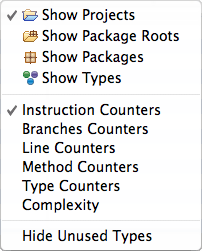
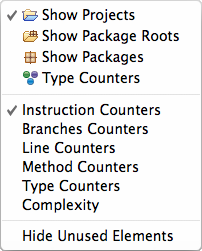
Trac #190: Generalize "Hide Unused Types" to "Hide Unused Elements"

Changed region(s): [[0.2079, 0.2789, 0.7129, 0.3625], [0.5347, 0.8924, 0.8614, 0.9761], [0.0, 0.0837, 0.0297, 0.1116]]

diff --git a/com.mountainminds.eclemma.doc/pages/changes.html b/com.mountainminds.eclemma.doc/pages/changes.html
@@ -19,6 +19,8 @@
   <li>For long-running processes intermediate coverage data dumps can now be
       collected without terminating the application under test.</li>
   <li>Trac #168: New editor for JaCoCo execution data files.</li>
+  <li>Trac #190: The <i>Coverage</i> view option <i>Hide Unused Types</i> has
+      been generalized to <i>Hide Unused Elements</i>.</li>
   <li>SF #3487904: Avoid NPE in case of new and empty launch configurations.</li>
   <li>SF #3477725: Java agent must not be added multiple times to plug-in
       launch configurations.</li> 

diff --git a/com.mountainminds.eclemma.doc/pages/coverageview.html b/com.mountainminds.eclemma.doc/pages/coverageview.html
@@ -93,8 +93,8 @@
   types and cyclomatic complexity. Please see
   <a class="extern" href="http://www.eclemma.org/jacoco/trunk/doc/counters.html">JaCoCo documentation</a>
   for detailed counter definitions.</li>  
-  <li><b>Hide Unused Types</b>: Filter all Java types from the coverage view
-  that has not been loaded during the coverage session.</li>  
+  <li><b>Hide Unused Elements</b>: Filter all elements from the coverage view
+  that have not been executed at all during the coverage session.</li>  
 </ul>
 
 <h3>Filtering</h3>

diff --git a/com.mountainminds.eclemma.ui/src/com/mountainminds/eclemma/internal/ui/coverageview/ViewSettings.java b/com.mountainminds.eclemma.ui/src/com/mountainminds/eclemma/internal/ui/coverageview/ViewSettings.java
@@ -31,7 +31,7 @@ public class ViewSettings {
   private static final String KEY_SORTCOLUMN = "sortcolumn"; //$NON-NLS-1$
   private static final String KEY_REVERSESORT = "reversesort"; //$NON-NLS-1$
   private static final String KEY_COUNTERS = "counters"; //$NON-NLS-1$
-  private static final String KEY_HIDEUNUSEDTYPES = "hideunusedtypes"; //$NON-NLS-1$
+  private static final String KEY_HIDEUNUSEDELEMENTS = "hideunusedelements"; //$NON-NLS-1$
   private static final String KEY_ROOTTYPE = "roottype"; //$NON-NLS-1$
   private static final String KEY_COLUMN0 = "column0"; //$NON-NLS-1$
   private static final String KEY_COLUMN1 = "column1"; //$NON-NLS-1$
@@ -88,7 +88,7 @@ public class ViewSettings {
   private boolean reversesort;
   private CounterEntity counters;
   private ElementType roottype;
-  private boolean hideunusedtypes;
+  private boolean hideunusedelements;
   private int[] columnwidths = new int[5];
   private boolean linked;
 
@@ -129,12 +129,12 @@ public class ViewSettings {
     this.roottype = roottype;
   }
 
-  public boolean getHideUnusedTypes() {
-    return hideunusedtypes;
+  public boolean getHideUnusedElements() {
+    return hideunusedelements;
   }
 
-  public void setHideUnusedTypes(boolean flag) {
-    hideunusedtypes = flag;
+  public void setHideUnusedElements(boolean flag) {
+    hideunusedelements = flag;
   }
 
   public int[] getColumnWidths() {
@@ -156,7 +156,7 @@ public class ViewSettings {
         CounterEntity.INSTRUCTION);
     roottype = getEnum(memento, KEY_ROOTTYPE, ElementType.class,
         ElementType.GROUP);
-    hideunusedtypes = getBoolean(memento, KEY_HIDEUNUSEDTYPES, false);
+    hideunusedelements = getBoolean(memento, KEY_HIDEUNUSEDELEMENTS, false);
     columnwidths[0] = getInt(memento, KEY_COLUMN0, DEFAULT_COLUMNWIDTH[0]);
     columnwidths[1] = getInt(memento, KEY_COLUMN1, DEFAULT_COLUMNWIDTH[1]);
     columnwidths[2] = getInt(memento, KEY_COLUMN2, DEFAULT_COLUMNWIDTH[2]);
@@ -167,16 +167,16 @@ public class ViewSettings {
 
   public void save(IMemento memento) {
     memento.putInteger(KEY_SORTCOLUMN, sortcolumn);
-    memento.putInteger(KEY_REVERSESORT, reversesort ? 1 : 0);
+    memento.putBoolean(KEY_REVERSESORT, reversesort);
     memento.putString(KEY_COUNTERS, counters.name());
     memento.putString(KEY_ROOTTYPE, roottype.name());
-    memento.putInteger(KEY_HIDEUNUSEDTYPES, hideunusedtypes ? 1 : 0);
+    memento.putBoolean(KEY_HIDEUNUSEDELEMENTS, hideunusedelements);
     memento.putInteger(KEY_COLUMN0, columnwidths[0]);
     memento.putInteger(KEY_COLUMN1, columnwidths[1]);
     memento.putInteger(KEY_COLUMN2, columnwidths[2]);
     memento.putInteger(KEY_COLUMN3, columnwidths[3]);
     memento.putInteger(KEY_COLUMN4, columnwidths[4]);
-    memento.putInteger(KEY_LINKED, linked ? 1 : 0);
+    memento.putBoolean(KEY_LINKED, linked);
   }
 
   private int getInt(IMemento memento, String key, int preset) {
@@ -185,6 +185,15 @@ public class ViewSettings {
     } else {
       Integer i = memento.getInteger(key);
       return i == null ? preset : i.intValue();
+    }
+  }
+
+  private boolean getBoolean(IMemento memento, String key, boolean preset) {
+    if (memento == null) {
+      return preset;
+    } else {
+      Boolean b = memento.getBoolean(key);
+      return b == null ? preset : b.booleanValue();
     }
   }
 
@@ -202,10 +211,6 @@ public class ViewSettings {
     } catch (IllegalArgumentException e) {
       return preset;
     }
-  }
-
-  private boolean getBoolean(IMemento memento, String key, boolean preset) {
-    return getInt(memento, key, preset ? 1 : 0) == 1;
   }
 
 }

diff --git a/com.mountainminds.eclemma.ui/src/com/mountainminds/eclemma/internal/ui/coverageview/CoverageView.java b/com.mountainminds.eclemma.ui/src/com/mountainminds/eclemma/internal/ui/coverageview/CoverageView.java
@@ -294,13 +294,17 @@ public class CoverageView extends ViewPart implements IShowInTarget {
         if (element == LOADING_ELEMENT) {
           return true;
         } else {
-          ICoverageNode c = CoverageTools.getCoverageInfo(element);
-          if (c == null || c.getInstructionCounter().getTotalCount() == 0) {
+          final ICoverageNode c = CoverageTools.getCoverageInfo(element);
+          if (c == null) {
             return false;
           }
-          if (settings.getHideUnusedTypes()) {
-            ICounter cnt = c.getClassCounter();
-            return cnt.getTotalCount() == 0 || cnt.getCoveredCount() != 0;
+          final ICounter instructions = c.getInstructionCounter();
+          if (instructions.getTotalCount() == 0) {
+            return false;
+          }
+          if (settings.getHideUnusedElements()
+              && instructions.getCoveredCount() == 0) {
+            return false;
           }
           return true;
         }
@@ -340,8 +344,8 @@ public class CoverageView extends ViewPart implements IShowInTarget {
         new SelectRootElementsHandler(settings, this));
     activateHandler(SelectCountersHandler.ID, new SelectCountersHandler(
         settings, this));
-    activateHandler(HideUnusedTypesHandler.ID, new HideUnusedTypesHandler(
-        settings, this));
+    activateHandler(HideUnusedElementsHandler.ID,
+        new HideUnusedElementsHandler(settings, this));
     activateHandler(IWorkbenchCommandConstants.EDIT_COPY,
         new CopyHandler(tree.getDisplay(), settings, labelprovider, viewer));
     activateHandler(IWorkbenchCommandConstants.FILE_REFRESH,

diff --git a/com.mountainminds.eclemma.ui/src/com/mountainminds/eclemma/internal/ui/coverageview/HideUnusedElementsHandler.java b/com.mountainminds.eclemma.ui/src/com/mountainminds/eclemma/internal/ui/coverageview/HideUnusedElementsHandler.java
@@ -22,27 +22,28 @@ import org.eclipse.ui.menus.UIElement;
 /**
  * Handler to toggle hide unused types in the coverage tree.
  */
-class HideUnusedTypesHandler extends AbstractHandler implements IElementUpdater {
+class HideUnusedElementsHandler extends AbstractHandler implements
+    IElementUpdater {
 
-  public static final String ID = "com.mountainminds.eclemma.ui.hideUnusedTypes"; //$NON-NLS-1$
+  public static final String ID = "com.mountainminds.eclemma.ui.hideUnusedElements"; //$NON-NLS-1$
 
   private final ViewSettings settings;
   private final CoverageView view;
 
-  public HideUnusedTypesHandler(ViewSettings settings, CoverageView view) {
+  public HideUnusedElementsHandler(ViewSettings settings, CoverageView view) {
     this.settings = settings;
     this.view = view;
   }
 
   public Object execute(ExecutionEvent event) throws ExecutionException {
-    settings.setHideUnusedTypes(!settings.getHideUnusedTypes());
+    settings.setHideUnusedElements(!settings.getHideUnusedElements());
     view.refreshViewer();
     return null;
   }
 
   public void updateElement(UIElement element,
       @SuppressWarnings("rawtypes") Map parameters) {
-    element.setChecked(settings.getHideUnusedTypes());
+    element.setChecked(settings.getHideUnusedElements());
   }
 
 }
